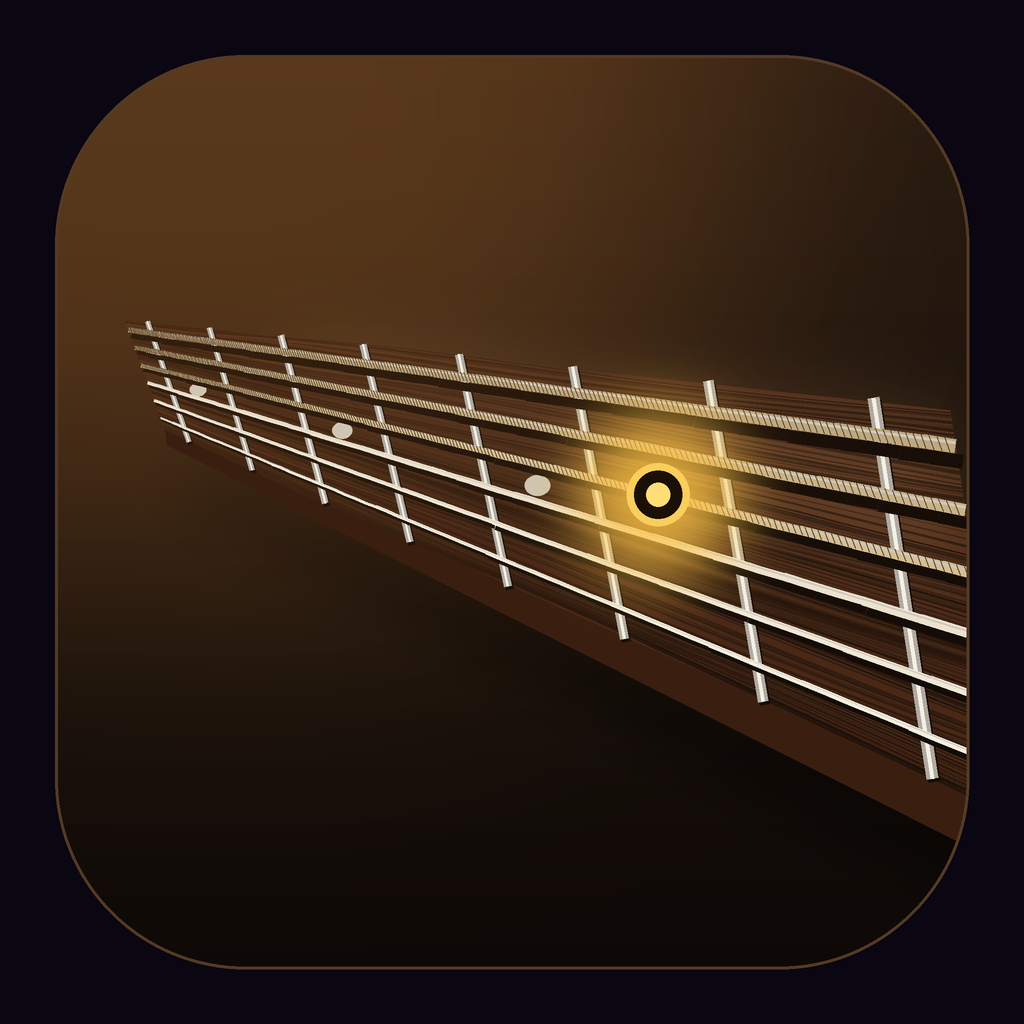
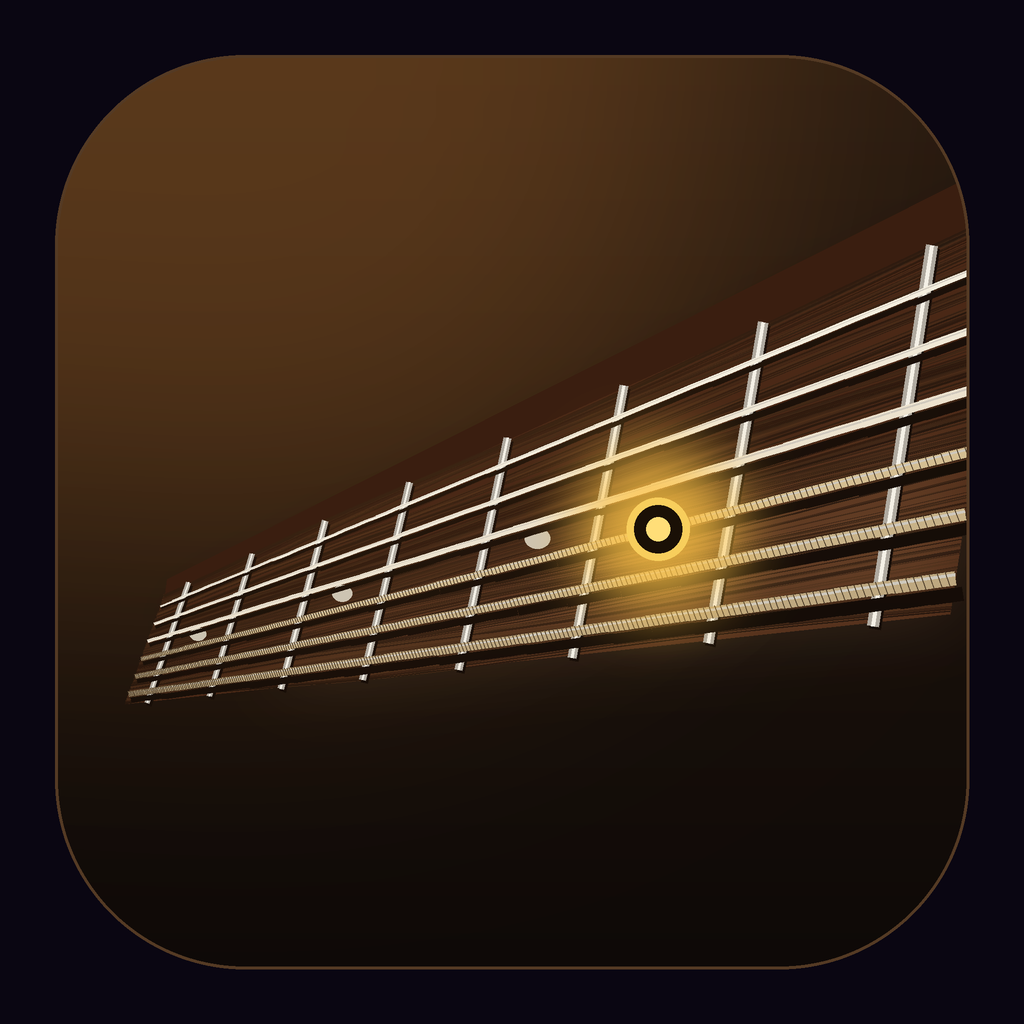
Diapason: flip the POV vertically to the seated guitarist's real view (1st string on top, neck rising to the body)

Changed region(s): [[0.125, 0.2188, 0.9688, 0.8125]]

diff --git a/public/apps/diapason/assets/index-Ct0s8Mqy.js b/public/apps/diapason/assets/index-Ct0s8Mqy.js
@@ -1,0 +1,4 @@
+(function(){let e=document.createElement(`link`).relList;if(e&&e.supports&&e.supports(`modulepreload`))return;for(let e of document.querySelectorAll(`link[rel="modulepreload"]`))n(e);new MutationObserver(e=>{for(let t of e)if(t.type===`childList`)for(let e of t.addedNodes)e.tagName===`LINK`&&e.rel===`modulepreload`&&n(e)}).observe(document,{childList:!0,subtree:!0});function t(e){let t={};return e.integrity&&(t.integrity=e.integrity),e.referrerPolicy&&(t.referrerPolicy=e.referrerPolicy),t.credentials=e.crossOrigin===`use-credentials`?`include`:e.crossOrigin===`anonymous`?`omit`:`same-origin`,t}function n(e){if(e.ep)return;e.ep=!0;let n=t(e);fetch(e.href,n)}})();var e=new URLSearchParams(location.search).get(`lang`)===`en`,t={Diapasón:`Fretboard`,"Diapasón — Entrenador de Notas":`Fretboard — Note Trainer`,"entrenador de notas · guitarra estándar":`note trainer · standard guitar`,Vista:`View`,Plana:`Flat`,"Desde el guitarrista":`Player’s view`,"Elige tu modo":`Choose your mode`,"¿Cómo quieres jugar?":`How would you like to play?`,Clásico:`Classic`,"El modo actual: sin reloj, sin strikes y a tu propio ritmo.":`No timer, no strikes. Learn at your own pace.`,"Con reloj por pregunta y tercer strike fuera.":`A timer for each question. Three strikes and you’re out.`,"Cuenta regresiva por pregunta":`Time per question`,Empezar:`Start`,Modo:`Mode`,Tiempo:`Time`,"Cambiar modo":`Change mode`,Correctas:`Correct`,Precisión:`Accuracy`,"¿Cuál es la nota en...?":`What is the note at…?`,Cuerda:`String`,Traste:`Fret`,"Escuchar nota":`Play note`,"Desliza el diapasón para ver todos los trastes":`Scroll the fretboard to see every fret`,"Notación:":`Notation:`,"♯ Sostenidos":`♯ Sharps`,"♭ Bemoles":`♭ Flats`,"Selecciona la nota":`Choose the note`,"Siguiente →":`Next →`,"Racha:":`Streak:`,"Enter o Espacio → siguiente pregunta":`Enter or Space → next question`,"Mira hacia el clavijero · toca una posición para escucharla":`Look towards the headstock · tap a position to hear it`,"Diapasón desde el guitarrista":`Fretboard from the player’s perspective`,"¡Correcto!":`Correct!`,"¡Exacto!":`Exactly!`,"¡Muy bien!":`Well done!`,"¡Perfecto!":`Perfect!`,"¡Excelente!":`Excellent!`,"Game over — 3 strikes. Intenta de nuevo.":`Game over — 3 strikes. Try again.`,"Intenta de nuevo":`Try again`},n=n=>e?t[n]??n:n;function r(){document.documentElement.lang=e?`en`:`es`,document.title=n(document.title);let r=document.createTreeWalker(document.body,NodeFilter.SHOW_TEXT);for(;r.nextNode();){let i=r.currentNode,a=i.textContent||``,o=a.trim();t[o]?i.textContent=a.replace(o,n(o)):e&&o.includes(`Traste`)&&(i.textContent=a.replace(`Traste`,`Fret`))}document.querySelectorAll(`[title],[aria-label]`).forEach(e=>{for(let t of[`title`,`aria-label`]){let r=e.getAttribute(t);r&&e.setAttribute(t,n(r))}})}var i=`https://pub-905d3540e35b4c49bb36ccc2d2d99752.r2.dev/`,a=[`C`,`C#`,`D`,`D#`,`E`,`F`,`F#`,`G`,`G#`,`A`,`A#`,`B`],o=[`C`,`Db`,`D`,`Eb`,`E`,`F`,`Gb`,`G`,`Ab`,`A`,`Bb`,`B`],s=[64,59,55,50,45,40],c=[4,11,7,2,9,4],l=[`e`,`B`,`G`,`D`,`A`,`E`],u=[`E String high`,`B String`,`G String`,`D String`,`A String`,`E String low`],d=12;try{navigator.audioSession&&(navigator.audioSession.type=`playback`)}catch{}var f=window.AudioContext||window.webkitAudioContext,p=f?new f:null,ee=[i+`acierto.mp3`,i+`error.mp3`],m=new Map,h=new Map,te=12,ne=new Set(ee),g=!1;function re(e){return m.has(e)||m.set(e,fetch(e).then(e=>{if(!e.ok)throw Error(`HTTP `+e.status);return e.arrayBuffer()}).catch(t=>(console.warn(`[audio] no se pudo descargar`,e,t),m.delete(e),null))),m.get(e)}function _(e){if(h.has(e)){let t=h.get(e);return h.delete(e),h.set(e,t),t}let t=re(e).then(e=>{if(!e)throw Error(`sin datos`);return new Promise((t,n)=>p.decodeAudioData(e.slice(0),t,n))}).catch(n=>(console.warn(`[audio] no se pudo decodificar`,e,n),h.get(e)===t&&h.delete(e),null));h.set(e,t);for(let e of h.keys()){if(h.size<=te)break;ne.has(e)||h.delete(e)}return t}function ie(){if(!p)return;ee.forEach(_);let e=[];for(let t=0;t<u.length;t++)for(let n=0;n<=d;n++)e.push(v(t,n));let t=0,n=()=>t<e.length?re(e[t++]).then(n):null;for(let e=0;e<4;e++)n()}function ae(e,t){p&&_(v(e,t))}function oe(){if(g=!0,!p||p.state===`running`)return;p.resume().catch(()=>{});let e=p.createBufferSource();e.buffer=p.createBuffer(1,1,22050),e.connect(p.destination),e.start(0)}[`pointerdown`,`touchend`,`keydown`].forEach(e=>document.addEventListener(e,oe,{capture:!0,passive:!0}));function v(e,t){let n=s[e]+t,r=a[n%12]+(Math.floor(n/12)-1)+`.mp3`;return i+encodeURIComponent(u[e])+`/`+encodeURIComponent(r)}function se(e,t){let n=p.createBufferSource(),r=p.createGain();n.buffer=e,r.gain.value=t,n.connect(r),r.connect(p.destination),n.start(0)}function y(e,t=1,n=1/0){if(!p){try{let n=new Audio(e);n.volume=t,n.play().catch(()=>{})}catch{}return}p.state!==`running`&&p.resume().catch(()=>{});let r=performance.now();_(e).then(e=>{e&&performance.now()-r<=n&&se(e,t)})}function ce(e,t){g&&y(v(e,t),1,1500)}function le(e){g&&y(i+(e?`acierto.mp3`:`error.mp3`),.65,500)}function ue(){g=!0;let e=document.getElementById(`play-btn`);e.classList.remove(`ringing`),e.offsetWidth,e.classList.add(`ringing`),y(v(S,C))}document.addEventListener(`pointerdown`,ie,{once:!0});var de=`sharp`;function b(e){return de===`flat`?o[a.indexOf(e)]:e}function fe(e,t){return a[(c[e]+t)%12]}function pe(e){de=e,document.querySelectorAll(`.mbtn`).forEach(t=>t.classList.toggle(`active`,t.dataset.mode===e)),document.querySelectorAll(`.nbtn`).forEach(e=>{e.textContent=b(e.dataset.sharp)})}function me(){let e=document.getElementById(`fret-nums`);for(let t=0;t<=d;t++){let n=document.createElement(`div`);n.className=`fn`,n.textContent=t,e.appendChild(n)}}function he(){let e=document.getElementById(`neck`),t=[1,1.5,2,2.5,3,3.5],n=[.58,.62,.66,.7,.74,.78];for(let r=0;r<6;r++){let i=document.createElement(`div`);i.className=`srow`;let a=document.createElement(`div`);a.className=`slabel`,a.textContent=l[r],i.appendChild(a);let o=document.createElement(`div`);o.className=`fcells`;let s=document.createElement(`div`);s.style.cssText=[`position:absolute`,`top:50%`,`left:0`,`right:0`,`height:${t[r]}px`,`transform:translateY(-50%)`,`background:linear-gradient(90deg,
+        rgba(235,215,165,${n[r]-.12}),
+        rgba(255,235,180,${n[r]}),
+        rgba(235,215,165,${n[r]-.12}))`,`box-shadow:0 0 2px rgba(245,225,175,.22),0 1px 2px rgba(0,0,0,.5)`,`pointer-events:none`,`z-index:1`].join(`;`),o.appendChild(s);for(let e=0;e<=d;e++){let t=document.createElement(`div`);t.id=`c-${r}-${e}`,t.className=`fc `+(e===0?`nut`:`fw`);let n=document.createElement(`div`);n.id=`d-${r}-${e}`,n.className=`pdot`,t.appendChild(n),o.appendChild(t)}i.appendChild(o),e.appendChild(i)}}function x(){let e=document.getElementById(`neck`),t=document.getElementById(`inlay-layer`);t.innerHTML=``;let n=e.getBoundingClientRect(),r=e.offsetHeight;function i(e,i,a){let o=document.getElementById(`c-0-${e}`);if(!o)return;let s=o.getBoundingClientRect(),c=s.left-n.left+s.width/2,l=r*i,u=document.createElement(`div`);u.className=`inlay`,u.style.cssText=`left:${c-a/2}px;top:${l-a/2}px;width:${a}px;height:${a}px`,t.appendChild(u)}[3,5,7,9].forEach(e=>i(e,.5,13)),i(12,.27,11),i(12,.73,11)}function ge(){let e=document.getElementById(`note-grid`);a.forEach(t=>{let n=document.createElement(`button`);n.className=`nbtn`,n.dataset.sharp=t,n.textContent=b(t),n.title=t,n.onclick=()=>je(t),e.appendChild(n)})}function _e(){let t=document.getElementById(`time-limit`);for(let n=5;n<=20;n++){let r=document.createElement(`option`);r.value=n,r.textContent=`${n} ${e?`seconds`:`segundos`}`,n===10&&(r.selected=!0),t.appendChild(r)}}function ve(e=`smooth`){let t=document.querySelector(`.fb-scroll`),n=document.getElementById(`c-${S}-${C}`);if(!t||!n)return;let r=t.getBoundingClientRect(),i=n.getBoundingClientRect(),a=t.scrollLeft+(i.left+i.width/2)-(r.left+t.clientWidth/2);t.scrollTo({left:Math.max(0,a),behavior:e})}var ye=[`session-bar`,`scorebar`,`question-box`,`fretboard-scroll`,`fretboard-hint`,`answer-area`,`feedback-zone`,`streak-box`,`key-hint`],S=0,C=0,w=0,T=[];function be(){T=[];for(let e=0;e<6;e++)for(let t=0;t<=d;t++)T.push([e,t]);for(let e=T.length-1;e>0;e--){let t=Math.floor(Math.random()*(e+1));[T[e],T[t]]=[T[t],T[e]]}}function xe(){return T.length===0&&be(),T.pop()}var E=0,D=0,O=0,k=!1,A=!1,j=`classic`,M=10,N=10,P=0,F=0,Se=`next`;function Ce(){document.getElementById(`s-ok`).textContent=w,document.getElementById(`s-tot`).textContent=E,document.getElementById(`s-pct`).textContent=E?Math.round(w/E*100)+`%`:`—`,document.getElementById(`streak-v`).textContent=D}function I(){let e=j===`time`,t=e?`Time Attack`:n(`Clásico`);document.getElementById(`game-mode-v`).textContent=t,document.getElementById(`timer-chip`).hidden=!e,document.getElementById(`strike-chip`).hidden=!e,document.getElementById(`timer-v`).textContent=`${e?N:M}s`,document.getElementById(`strikes-v`).textContent=`${O}/3`,document.getElementById(`strikes-v`).classList.toggle(`danger`,O>=2)}function we(e){ye.forEach(t=>{document.getElementById(t).hidden=!e}),document.getElementById(`setup-card`).hidden=e}function Te(e){j=e,document.querySelectorAll(`.setup-option`).forEach(t=>{t.classList.toggle(`active`,t.dataset.gameMode===e)}),document.getElementById(`timer-config`).hidden=e!==`time`,N=M,I()}function Ee(e){M=Number(e),N=M,I()}function L(){clearInterval(P),clearTimeout(F),P=0,F=0}function R(e,t,n){if(n&&!A)return;Se=e;let r=document.getElementById(`next-btn`);r.textContent=t,r.className=n?`next-btn show`:`next-btn`}function De(){Se===`restart`?z():k&&B()}function Oe(e){clearTimeout(F),F=setTimeout(()=>{A&&B()},e)}function ke(){clearInterval(P),P=0,j===`time`&&A&&(N=M,I(),P=setInterval(()=>{N--,I(),N<=0&&(clearInterval(P),P=0,Me(null,{timedOut:!0}))},1e3))}function z(){L(),A=!0,w=0,E=0,D=0,O=0,N=M,k=!1,Ce(),I(),document.getElementById(`fb-msg`).textContent=``,document.getElementById(`fb-msg`).className=`fb-msg`,R(`next`,n(`Siguiente →`),!1),we(!0),B()}function Ae(){L(),A=!1,k=!1,document.getElementById(`d-${S}-${C}`)?.classList.remove(`on`),document.getElementById(`fb-msg`).textContent=``,document.getElementById(`fb-msg`).className=`fb-msg`,R(`next`,n(`Siguiente →`),!1),we(!1),I()}function B(){!A||j===`time`&&O>=3||(L(),document.getElementById(`d-${S}-${C}`)?.classList.remove(`on`),document.querySelectorAll(`.nbtn`).forEach(e=>{e.disabled=!1,e.classList.remove(`is-ok`,`is-err`)}),document.getElementById(`fb-msg`).className=`fb-msg`,document.getElementById(`fb-msg`).textContent=``,document.getElementById(`next-btn`).className=`next-btn`,[S,C]=xe(),T.length&&ae(...T[T.length-1]),k=!1,document.getElementById(`q-str`).textContent=S+1,document.getElementById(`q-fret`).textContent=C,requestAnimationFrame(()=>{document.getElementById(`d-${S}-${C}`)?.classList.add(`on`),ve(E?`smooth`:`auto`),ke(),setTimeout(()=>ce(S,C),80)}))}function je(e){Me(e)}function Me(t,{timedOut:r=!1}={}){if(!A||k)return;k=!0,clearInterval(P),P=0;let i=fe(S,C),a=!r&&t===i;E++,a?(w++,D++):(D=0,j===`time`&&O++),Ce(),I();try{localStorage.setItem(`storm-diapason-progress`,JSON.stringify({hits:w,total:E,streak:D,strikes:O}))}catch{}document.querySelectorAll(`.nbtn`).forEach(e=>e.disabled=!0),document.querySelector(`.nbtn[data-sharp="${i}"]`).classList.add(`is-ok`),!a&&t&&document.querySelector(`.nbtn[data-sharp="${t}"]`)?.classList.add(`is-err`);let o=document.getElementById(`fb-msg`);if(a){let e=[n(`¡Correcto!`),n(`¡Exacto!`),n(`¡Muy bien!`),n(`¡Perfecto!`),n(`¡Excelente!`)];o.textContent=e[Math.floor(Math.random()*e.length)],o.className=`fb-msg ok show`}else r?(o.textContent=j===`time`?e?`Time’s up — strike ${O} of 3`:`Tiempo agotado — strike ${O} de 3`:e?`Time’s up — it was ${b(i)}`:`Tiempo agotado — era ${b(i)}`,o.className=`fb-msg err show`):j===`time`?(o.textContent=e?`Strike ${O} of 3 — it was ${b(i)}`:`Strike ${O} de 3 — era ${b(i)}`,o.className=`fb-msg err show`):(o.textContent=e?`Incorrect — it was ${b(i)}`:`Incorrecto — era ${b(i)}`,o.className=`fb-msg err show`);if(le(a),j===`time`){if(!a&&O>=3){o.textContent=n(`Game over — 3 strikes. Intenta de nuevo.`),o.className=`fb-msg err show`,F=setTimeout(()=>{R(`restart`,n(`Intenta de nuevo`),!0)},280);return}Oe(a?700:1100)}else F=setTimeout(()=>{R(`next`,n(`Siguiente →`),!0)},400)}me(),he(),ge(),_e(),document.body.classList.add(`app-ready`),Te(`classic`),Ae(),requestAnimationFrame(()=>requestAnimationFrame(x));var Ne=0;function Pe(){clearTimeout(Ne),Ne=setTimeout(()=>{x(),ve(`auto`)},120)}window.addEventListener(`resize`,Pe),window.addEventListener(`orientationchange`,Pe),document.addEventListener(`keydown`,e=>{e.target instanceof Element&&e.target.closest(`button, select, input`)||(e.key===`Enter`||e.key===` `)&&(document.getElementById(`setup-card`).hidden?k&&(e.preventDefault(),De()):(e.preventDefault(),z()))}),Object.assign(window,{setGameMode:Te,setTimeLimit:Ee,startSession:z,goToSetup:Ae,replayNote:ue,setMode:pe,handlePrimaryAction:De});var V=(e,t)=>e.reduce((e,n,r)=>e+n*t[r],0),Fe=(e,t)=>[e[0]-t[0],e[1]-t[1],e[2]-t[2]],Ie=e=>e.map(t=>t/Math.hypot(...e)),Le=(e,t)=>[e[1]*t[2]-e[2]*t[1],e[2]*t[0]-e[0]*t[2],e[0]*t[1]-e[1]*t[0]],Re=[470,230,260],H=Ie(Fe([160,0,0],Re)),ze=Ie(Le(H,[0,0,-1])),Be=Le(ze,H),Ve=460,U=e=>650*(1-2**(-e/12)),W=e=>52+10*e/325,G=(e,t)=>(e-2.5)*(43+14*t/650)/5,K=e=>e===0?-10:U(e-1)+(U(e)-U(e-1))*.64;function q(e,t,n=0){let r=Fe([e,t,n],Re),i=V(r,H),a=1500*V(r,ze)/i,o=-1500*V(r,Be)/i,s=48*Math.PI/180;return{x:480+.75*(a*Math.cos(s)-o*Math.sin(s)),y:Ve-(200+.75*(a*Math.sin(s)+o*Math.cos(s)))}}var He=(e,t)=>q(K(t),G(e,K(t)),3);function Ue(e,t){let n=!1;for(let r=0,i=t.length-1;r<t.length;i=r++){let a=t[r],o=t[i];a.y>e.y!=o.y>e.y&&e.x<(o.x-a.x)*(e.y-a.y)/(o.y-a.y)+a.x&&(n=!n)}return n}function We(e){for(let t=0;t<=12;t++)for(let n=0;n<6;n++){let r=t===0?-22:U(t-1),i=t===0?0:U(t),a=(e,t)=>G(n,e)+t*(43+14*e/650)/10;if(Ue(e,[q(r,a(r,-1),3),q(i,a(i,-1),3),q(i,a(i,1),3),q(r,a(r,1),3)]))return[n,t]}return null}var Ge=[1.5,2.1,2.8,3.7,4.5,5.3];function Ke(e){let t=Math.max(24,22e3/e);return Array.from({length:6},(e,n)=>({s:n,label:{x:115,y:290-(2.5-n)*t},anchor:q(-22,G(n,-22),3)}))}function qe(e,t,n=null){let r=e.getContext(`2d`),i=Math.min(devicePixelRatio||1,2),a=e.clientWidth,o=e.clientHeight;e.width=a*i,e.height=o*i,r.scale(a*i/1100,o*i/460);let s=(e,t,n,i=1)=>{r.beginPath(),r.moveTo(e.x,e.y),r.lineTo(t.x,t.y),r.strokeStyle=n,r.lineWidth=i,r.stroke()},c=(e,t)=>{r.beginPath(),e.forEach((e,t)=>t?r.lineTo(e.x,e.y):r.moveTo(e.x,e.y)),r.closePath(),r.fillStyle=t,r.fill()},l=e=>[q(0,-26,e),q(345,-W(345)/2,e),q(345,W(345)/2,e),q(0,26,e)],u=r.createRadialGradient(800,280,20,550,230,700);u.addColorStop(0,`#44352b`),u.addColorStop(.55,`#201b18`),u.addColorStop(1,`#100e0d`),r.fillStyle=u,r.fillRect(0,0,1100,460);let d=r.createLinearGradient(800,Ve,1100,60);d.addColorStop(0,`#b57e43`),d.addColorStop(.5,`#80522d`),d.addColorStop(1,`#d7a366`);let f=[];for(let e=0;e<70;e++){let t=e/69*Math.PI*2;f.push(q(490+150*Math.cos(t),140*Math.sin(t),-13))}c(f,d);for(let e=0;e<45;e++){let t=-135+e*6;s(q(360,t,-12),q(600,t,-12),`#2d190b18`,1)}c([q(-90,-31,-4),q(0,-26,-4),q(0,26,-4),q(-90,31,-4)],`#68422b`);for(let e of[-17,17])c([q(-78,e-5,-3),q(-18,e-5,-3),q(-18,e+5,-3),q(-78,e+5,-3)],`#171311`);for(let e of[-68,-47,-27])for(let t of[-17,17])s(q(e,t-5,-2),q(e,t+5,-2),`#cfbb94`,3);r.save(),r.shadowColor=`#000b`,r.shadowBlur=22,r.shadowOffsetY=20,c(l(-8),`#18100c`),r.restore(),c([q(0,26,0),q(345,W(345)/2,0),q(345,W(345)/2,-12),q(0,26,-12)],`#61412e`),s(q(0,26,-6),q(345,W(345)/2,-6),`#956749`,1);let p=r.createLinearGradient(350,370,850,110);p.addColorStop(0,`#211a17`),p.addColorStop(.45,`#49352a`),p.addColorStop(.65,`#2b201b`),p.addColorStop(1,`#171312`),c(l(0),p),r.save(),r.beginPath(),l(0).forEach((e,t)=>t?r.lineTo(e.x,e.y):r.moveTo(e.x,e.y)),r.closePath(),r.clip();for(let e=0;e<190;e++){let t=-35+e*.38;r.beginPath();for(let n=0;n<=350;n+=5){let i=q(n,t+Math.sin(n*.027+e*1.7)*.18+Math.sin(n*.008+e)*.5,0);n?r.lineTo(i.x,i.y):r.moveTo(i.x,i.y)}r.strokeStyle=e%3?`#d7985820`:`#05040366`,r.lineWidth=e%5==0?1.2:.5,r.stroke()}r.restore(),s(q(0,26,.1),q(345,W(345)/2,.1),`#c3976870`,1.4);for(let e of[3,5,7,9,12]){let t=K(e);for(let n of e===12?[-9,9]:[0]){let e=q(t,n,.1);r.beginPath(),r.ellipse(e.x,e.y,3.2,2.2,.35,0,Math.PI*2),r.fillStyle=`#c8bd9c8a`,r.fill()}let n=q(t,W(t)/2,-4);r.beginPath(),r.arc(n.x,n.y,1.8,0,Math.PI*2),r.fillStyle=`#e6d4ab`,r.fill()}for(let e=0;e<=12;e++){let t=U(e),n=q(t,-W(t)/2,.6),i=q(t,W(t)/2,.6);s({x:n.x+1,y:n.y-2},{x:i.x+1,y:i.y-2},`#0009`,e?4:7);let a=r.createLinearGradient(n.x,n.y,i.x,i.y);a.addColorStop(0,`#8b8171`),a.addColorStop(.2,`#fff5d9`),a.addColorStop(.45,`#a49d93`),a.addColorStop(.7,`#eae6da`),a.addColorStop(1,`#6b6862`),r.beginPath(),r.moveTo(n.x,n.y),r.lineTo(i.x,i.y),r.strokeStyle=e?a:`#e6d7b6`,r.lineWidth=e?2.5:6,r.stroke();let o=q(e===0?-10:K(e),-W(t)/2-11);r.fillStyle=`#e0d0b6`,r.font=`12px Arial`,r.textAlign=`center`,r.fillText(String(e),o.x,o.y)}for(let e=0;e<6;e++){let t=q(-22,G(e,-22),3),n=q(350,G(e,350),3),i=Math.hypot(n.x-t.x,n.y-t.y),a=(n.x-t.x)/i,o=(n.y-t.y)/i,c=-o,l=a,u=Ge[e],d=(e,t)=>({x:e.x+c*t,y:e.y+l*t});r.save(),r.shadowColor=`#0009`,r.shadowBlur=2,s(q(-22,G(e,-22)+1,0),q(350,G(e,350)+1,0),`#0008`,u*.9),r.restore();for(let n=0;n<24;n++){let r=n/24,c=(n+1)/24,l={x:t.x+a*i*r,y:t.y+o*i*r},f={x:t.x+a*i*c,y:t.y+o*i*c},p=u*(.72+.4*r);e>=3?(s(l,f,`#4c4b47`,p),s(d(l,-p*.12),d(f,-p*.12),`#b7b4a6`,p*.72),s(d(l,-p*.28),d(f,-p*.28),`#fff0cf`,p*.2)):(s(l,f,`#d5e3df48`,p),s(d(l,p*.28),d(f,p*.28),`#b6b9ac70`,p*.22),s(d(l,-p*.28),d(f,-p*.28),`#fff9e5b0`,Math.max(.4,p*.2)))}if(e>=3)for(let e=0;e<i;e+=2.6){let n=u*(.72+e/i*.4)*.48,r={x:t.x+a*e,y:t.y+o*e};s({x:r.x-c*n-a*.55,y:r.y-l*n-o*.55},{x:r.x+c*n+a*.55,y:r.y+l*n+o*.55},`#292b2aab`,.8),s({x:r.x-c*n+a*.35,y:r.y-l*n+o*.35},{x:r.x+a*.8,y:r.y+o*.8},`#fff6dc99`,.55)}}for(let{s:e,label:t,anchor:n}of Ke(a))s({x:t.x+12,y:t.y-4},{x:n.x-12,y:n.y},`#decba573`,.8),s({x:n.x-12,y:n.y},n,`#decba5aa`,1),r.fillStyle=`#f1e6d0`,r.font=`${15400/a}px Arial`,r.textAlign=`right`,r.fillText([`1 · E`,`2 · B`,`3 · G`,`4 · D`,`5 · A`,`6 · E`][e],t.x,t.y);for(let[e,i]of[[n,`#f1e3c6`],[t,`#f3c94f`]]){if(!e)continue;let t=He(...e);r.beginPath(),r.arc(t.x,t.y,9,0,Math.PI*2),r.fillStyle=`#17110f`,r.fill(),r.strokeStyle=i,r.lineWidth=2,r.stroke(),r.beginPath(),r.arc(t.x,t.y,3,0,Math.PI*2),r.fillStyle=i,r.fill()}}r();var J=document.querySelector(`#view`),Je=document.querySelector(`#pov`),Ye=document.querySelector(`.pov-stage`),Xe=document.querySelector(`.pov-scroll`),Ze=document.querySelector(`#guitar`),Qe=document.querySelector(`#fretboard-scroll`),$e=document.querySelector(`#fretboard-hint`),et=document.querySelector(`#positions`),tt=null,nt=``,Y=e=>{try{return localStorage.getItem(e)}catch{return null}},rt=(e,t)=>{try{localStorage.setItem(e,t)}catch{}};J.value=Y(`storm-diapason-view`)===`flat`?`flat`:`pov`;function it(){let e=document.querySelector(`.pdot.on`);if(!e)return null;let[,t,n]=e.id.split(`-`);return[+t,+n]}function X(){qe(Ze,it(),tt)}function Z(){let e=document.querySelector(`#setup-card`).hidden,t=e&&J.value===`pov`;if(Je.hidden=!t,Qe.classList.toggle(`view-hidden`,J.value===`pov`),$e.classList.toggle(`view-hidden`,J.value===`pov`),e&&!t&&(x(),ve(`auto`)),t){let e=it(),t=e?.join(`-`)||``;if(t!==nt&&(tt=null,nt=t,et.querySelectorAll(`button`).forEach(e=>e.setAttribute(`aria-current`,String(e.dataset.position===t))),e)){let t=He(...e);Xe.scrollTo({left:Math.max(0,t.x*Ye.clientWidth/1100-Xe.clientWidth/2),behavior:`instant`})}X()}}for(let t=0;t<6;t++)for(let n=0;n<=12;n++){let r=document.createElement(`button`),i=He(t,n);r.className=`position`,r.dataset.position=`${t}-${n}`,r.style.left=`${i.x/11}%`,r.style.top=`${i.y/4.6}%`,r.setAttribute(`aria-label`,e?`String ${t+1}, fret ${n}. Play note`:`Cuerda ${t+1}, traste ${n}. Escuchar nota`),r.tabIndex=t===0&&n===0?0:-1,r.onclick=()=>at(t,n),r.onkeydown=e=>{let i=t,a=n;if(e.key===`ArrowLeft`)a--;else if(e.key===`ArrowRight`)a++;else if(e.key===`ArrowUp`)i++;else if(e.key===`ArrowDown`)i--;else return;e.preventDefault(),i=Math.max(0,Math.min(5,i)),a=Math.max(0,Math.min(12,a)),r.tabIndex=-1;let o=et.querySelector(`[data-position="${i}-${a}"]`);o.tabIndex=0,o.focus()},et.append(r)}function at(e,t){oe(),ce(e,t),tt=[e,t],X()}Ze.addEventListener(`click`,e=>{let t=Ze.getBoundingClientRect(),n=We({x:(e.clientX-t.left)*1100/t.width,y:(e.clientY-t.top)*460/t.height});n&&at(...n)}),J.addEventListener(`change`,()=>{rt(`storm-diapason-view`,J.value),nt=``,Z()}),new MutationObserver(Z).observe(document.querySelector(`#neck`),{subtree:!0,attributes:!0,attributeFilter:[`class`]}),new MutationObserver(Z).observe(document.querySelector(`#setup-card`),{attributes:!0,attributeFilter:[`hidden`]}),new ResizeObserver(()=>{Je.hidden||X()}).observe(Ye);var ot=document.createElement(`p`);ot.className=`keyboard-pov`,ot.textContent=e?`Keyboard: focus the fretboard, use arrow keys, then Enter to listen.`:`Teclado: enfoca el mástil, usa las flechas y pulsa Enter para escuchar.`,Je.append(ot);for(let[e,t]of[[`notation`,`.mbtn`],[`game-mode`,`.setup-option`]]){let n=Y(`storm-diapason-`+e);document.querySelectorAll(t).forEach(t=>{(t.dataset.mode||t.dataset.gameMode)===n&&t.click(),t.addEventListener(`click`,()=>rt(`storm-diapason-`+e,t.dataset.mode||t.dataset.gameMode||``))})}var Q=document.querySelector(`#time-limit`),$=Number(Y(`storm-diapason-time`));$>=5&&$<=20&&(Q.value=String($),Q.dispatchEvent(new Event(`change`))),Q.addEventListener(`change`,()=>rt(`storm-diapason-time`,Q.value));try{let t=JSON.parse(Y(`storm-diapason-progress`)||`null`);if(t&&Number.isInteger(t.total)&&t.total>0){let n=document.createElement(`p`);n.className=`last-session`,n.textContent=e?`Last saved session: ${t.hits}/${t.total} correct.`:`Última sesión guardada: ${t.hits}/${t.total} correctas.`,document.querySelector(`#setup-card`).append(n)}}catch{}Z();

diff --git a/apps-src/diapason/src/geometry.ts b/apps-src/diapason/src/geometry.ts
@@ -7,6 +7,7 @@ const cross=(a:Vec,b:Vec):Vec=>[a[1]*b[2]-a[2]*b[1],a[2]*b[0]-a[0]*b[2],a[0]*b[1
 // Millimetres. Camera is above the bass edge, looking left towards the nut.
 const eye:Vec=[470,230,260], forward=norm(sub([160,0,0],eye));
 const right=norm(cross(forward,[0,0,-1])), up=cross(right,forward);
+const H=460; // alto del lienzo de referencia (1100 × 460)
 export const fret=(n:number)=>650*(1-Math.pow(2,-n/12));
 export const width=(x:number)=>52+10*x/325;
 export const stringY=(s:number,x:number)=>(s-2.5)*(43+14*x/650)/5;
@@ -15,7 +16,9 @@ export function project(x:number,y:number,z=0):Point {
   const v=sub([x,y,z],eye), depth=dot(v,forward);
   // Camera roll follows the neck across the player's lap. Uniform scale preserves perspective.
   const u=1500*dot(v,right)/depth, w=-1500*dot(v,up)/depth, roll=48*Math.PI/180;
-  return {x:480+.75*(u*Math.cos(roll)-w*Math.sin(roll)),y:200+.75*(u*Math.sin(roll)+w*Math.cos(roll))};
+  // Volteo vertical (Luis, 2026-10-20): así ve el mástil el guitarrista sentado, con la 1ª arriba,
+  // la 6ª abajo y el mástil subiendo hacia la caja. Los textos se dibujan derechos aparte.
+  return {x:480+.75*(u*Math.cos(roll)-w*Math.sin(roll)),y:H-(200+.75*(u*Math.sin(roll)+w*Math.cos(roll)))};
 }
 export const position=(s:number,f:number)=>project(positionX(f),stringY(s,positionX(f)),3);
 export function inside(p:Point,poly:Point[]) {
@@ -38,7 +41,7 @@ export function hitPosition(p:Point):[number,number]|null {
 export const STRING_DIAMETERS=[1.5,2.1,2.8,3.7,4.5,5.3] as const;
 export function stringLabels(viewportWidth:number){
   const spacing=Math.max(24,20*1100/viewportWidth);
-  return Array.from({length:6},(_,s)=>({s,label:{x:115,y:170+(2.5-s)*spacing},anchor:project(-22,stringY(s,-22),3)}));
+  return Array.from({length:6},(_,s)=>({s,label:{x:115,y:H-170-(2.5-s)*spacing},anchor:project(-22,stringY(s,-22),3)}));
 }
 export function draw(canvas:HTMLCanvasElement,active:[number,number]|null,preview:[number,number]|null=null) {
   const c=canvas.getContext('2d')!;
@@ -47,9 +50,9 @@ export function draw(canvas:HTMLCanvasElement,active:[number,number]|null,previe
   const line=(a:Point,b:Point,color:string,size=1)=>{c.beginPath();c.moveTo(a.x,a.y);c.lineTo(b.x,b.y);c.strokeStyle=color;c.lineWidth=size;c.stroke();};
   const polygon=(points:Point[],fill:string|CanvasGradient)=>{c.beginPath();points.forEach((p,i)=>i?c.lineTo(p.x,p.y):c.moveTo(p.x,p.y));c.closePath();c.fillStyle=fill;c.fill();};
   const board=(z:number)=>[project(0,-26,z),project(345,-width(345)/2,z),project(345,width(345)/2,z),project(0,26,z)];
-  const bg=c.createRadialGradient(800,180,20,550,230,700);bg.addColorStop(0,'#44352b');bg.addColorStop(.55,'#201b18');bg.addColorStop(1,'#100e0d');c.fillStyle=bg;c.fillRect(0,0,1100,460);
+  const bg=c.createRadialGradient(800,H-180,20,550,H-230,700);bg.addColorStop(0,'#44352b');bg.addColorStop(.55,'#201b18');bg.addColorStop(1,'#100e0d');c.fillStyle=bg;c.fillRect(0,0,1100,460);
   // A restrained glimpse of the cedar body situates the neck against the player.
-  const body=c.createLinearGradient(800,0,1100,400);body.addColorStop(0,'#b57e43');body.addColorStop(.5,'#80522d');body.addColorStop(1,'#d7a366');
+  const body=c.createLinearGradient(800,H,1100,H-400);body.addColorStop(0,'#b57e43');body.addColorStop(.5,'#80522d');body.addColorStop(1,'#d7a366');
   const bodyPts:Point[]=[];for(let i=0;i<70;i++){const a=i/69*Math.PI*2;bodyPts.push(project(490+150*Math.cos(a),140*Math.sin(a),-13));}polygon(bodyPts,body);
   for(let i=0;i<45;i++){const y=-135+i*6;line(project(360,y,-12),project(600,y,-12),'#2d190b18',1);}
   // Slotted headstock, bone nut, and mahogany neck edge.
@@ -59,18 +62,18 @@ export function draw(canvas:HTMLCanvasElement,active:[number,number]|null,previe
   c.save();c.shadowColor='#000b';c.shadowBlur=22;c.shadowOffsetY=20;polygon(board(-8),'#18100c');c.restore();
   polygon([project(0,26,0),project(345,width(345)/2,0),project(345,width(345)/2,-12),project(0,26,-12)],'#61412e');
   line(project(0,26,-6),project(345,width(345)/2,-6),'#956749',1);
-  const wood=c.createLinearGradient(350,90,850,350);wood.addColorStop(0,'#211a17');wood.addColorStop(.45,'#49352a');wood.addColorStop(.65,'#2b201b');wood.addColorStop(1,'#171312');polygon(board(0),wood);
+  const wood=c.createLinearGradient(350,H-90,850,H-350);wood.addColorStop(0,'#211a17');wood.addColorStop(.45,'#49352a');wood.addColorStop(.65,'#2b201b');wood.addColorStop(1,'#171312');polygon(board(0),wood);
   c.save();c.beginPath();board(0).forEach((p,i)=>i?c.lineTo(p.x,p.y):c.moveTo(p.x,p.y));c.closePath();c.clip();
   // Deterministic longitudinal grain, drawn in world coordinates before projection.
   for(let i=0;i<190;i++){const y=-35+i*.38;c.beginPath();for(let x=0;x<=350;x+=5){const p=project(x,y+Math.sin(x*.027+i*1.7)*.18+Math.sin(x*.008+i)*.5,0);x?c.lineTo(p.x,p.y):c.moveTo(p.x,p.y);}c.strokeStyle=i%3?'#d7985820':'#05040366';c.lineWidth=i%5===0?1.2:.5;c.stroke();}c.restore();
   line(project(0,26,.1),project(345,width(345)/2,.1),'#c3976870',1.4);
   for(const f of [3,5,7,9,12]){
-    const x=positionX(f);for(const y of f===12?[-9,9]:[0]){const p=project(x,y,.1);c.beginPath();c.ellipse(p.x,p.y,3.2,2.2,-.35,0,Math.PI*2);c.fillStyle='#c8bd9c8a';c.fill();}
+    const x=positionX(f);for(const y of f===12?[-9,9]:[0]){const p=project(x,y,.1);c.beginPath();c.ellipse(p.x,p.y,3.2,2.2,.35,0,Math.PI*2);c.fillStyle='#c8bd9c8a';c.fill();}
     const p=project(x,width(x)/2,-4);c.beginPath();c.arc(p.x,p.y,1.8,0,Math.PI*2);c.fillStyle='#e6d4ab';c.fill();
   }
   for(let f=0;f<=12;f++){
     const x=fret(f),a=project(x,-width(x)/2,.6),b=project(x,width(x)/2,.6);
-    line({x:a.x+1,y:a.y+2},{x:b.x+1,y:b.y+2},'#0009',f?4:7);
+    line({x:a.x+1,y:a.y-2},{x:b.x+1,y:b.y-2},'#0009',f?4:7);
     const metal=c.createLinearGradient(a.x,a.y,b.x,b.y);metal.addColorStop(0,'#8b8171');metal.addColorStop(.2,'#fff5d9');metal.addColorStop(.45,'#a49d93');metal.addColorStop(.7,'#eae6da');metal.addColorStop(1,'#6b6862');
     c.beginPath();c.moveTo(a.x,a.y);c.lineTo(b.x,b.y);c.strokeStyle=f?metal:'#e6d7b6';c.lineWidth=f?2.5:6;c.stroke();
     const p=project(f===0?-10:positionX(f),-width(x)/2-11);c.fillStyle='#e0d0b6';c.font='12px Arial';c.textAlign='center';c.fillText(String(f),p.x,p.y);

diff --git a/public/apps/diapason/index.html b/public/apps/diapason/index.html
@@ -5,7 +5,7 @@
   <meta name="viewport" content="width=device-width, initial-scale=1.0, viewport-fit=cover">
   <title>Diapasón — Entrenador de Notas</title>
   <link href="https://fonts.googleapis.com/css2?family=Playfair+Display:wght@700;900&family=JetBrains+Mono:wght@400;600;700&display=swap" rel="stylesheet">
-  <script type="module" crossorigin src="/apps/diapason/assets/index-C7VWKNdO.js"></script>
+  <script type="module" crossorigin src="/apps/diapason/assets/index-Ct0s8Mqy.js"></script>
   <link rel="stylesheet" crossorigin href="/apps/diapason/assets/index-j_XKdN9W.css">
 </head>
 <body>

diff --git a/apps-src/diapason/icono/generar-icono.py b/apps-src/diapason/icono/generar-icono.py
@@ -57,14 +57,15 @@ def pt(u, v):
     p = persp(u)
     top = (lerp(FAR_TOP[0], NEAR_TOP[0], p), lerp(FAR_TOP[1], NEAR_TOP[1], p))
     bot = (lerp(FAR_BOT[0], NEAR_BOT[0], p), lerp(FAR_BOT[1], NEAR_BOT[1], p))
-    return (lerp(top[0], bot[0], v), lerp(top[1], bot[1], v))
+    # Volteado en vertical, como la vista POV de la app: el mástil sube hacia la caja y la 6ª queda abajo.
+    return (lerp(top[0], bot[0], v), S - lerp(top[1], bot[1], v))
 
 
 neck = Image.new("RGBA", (S, S), (0, 0, 0, 0))
 nd = ImageDraw.Draw(neck)
 
 # Canto del diapasón (el grosor que se ve bajo las agudas) y sombra sobre la caja.
-edge = [pt(0, 1), pt(1, 1), (NEAR_BOT[0] + 10, NEAR_BOT[1] + 120), (FAR_BOT[0] + 4, FAR_BOT[1] + 30)]
+edge = [pt(0, 1), pt(1, 1), (NEAR_BOT[0] + 10, S - NEAR_BOT[1] - 120), (FAR_BOT[0] + 4, S - FAR_BOT[1] - 30)]
 shadow = Image.new("L", (S, S), 0)
 ImageDraw.Draw(shadow).polygon([(x + 40, y + 90) for x, y in edge], fill=170)
 shadow = shadow.filter(ImageFilter.GaussianBlur(60))
